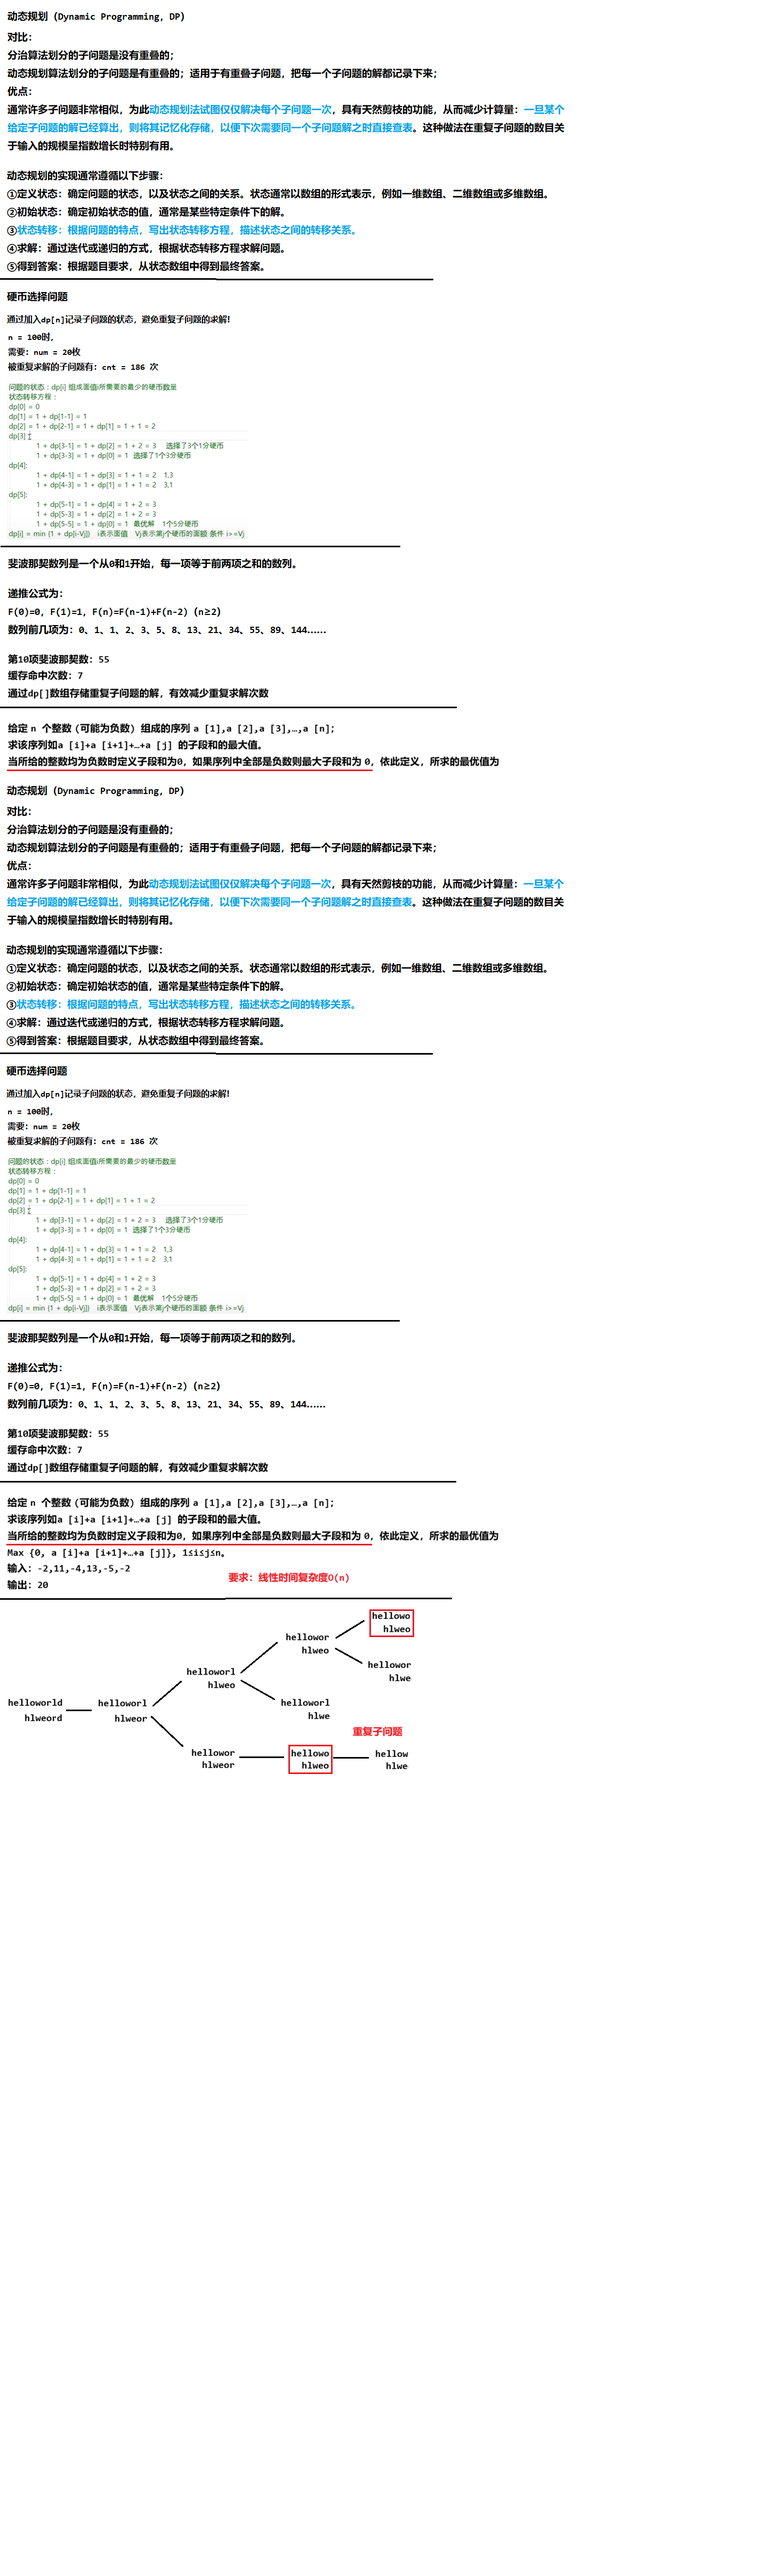
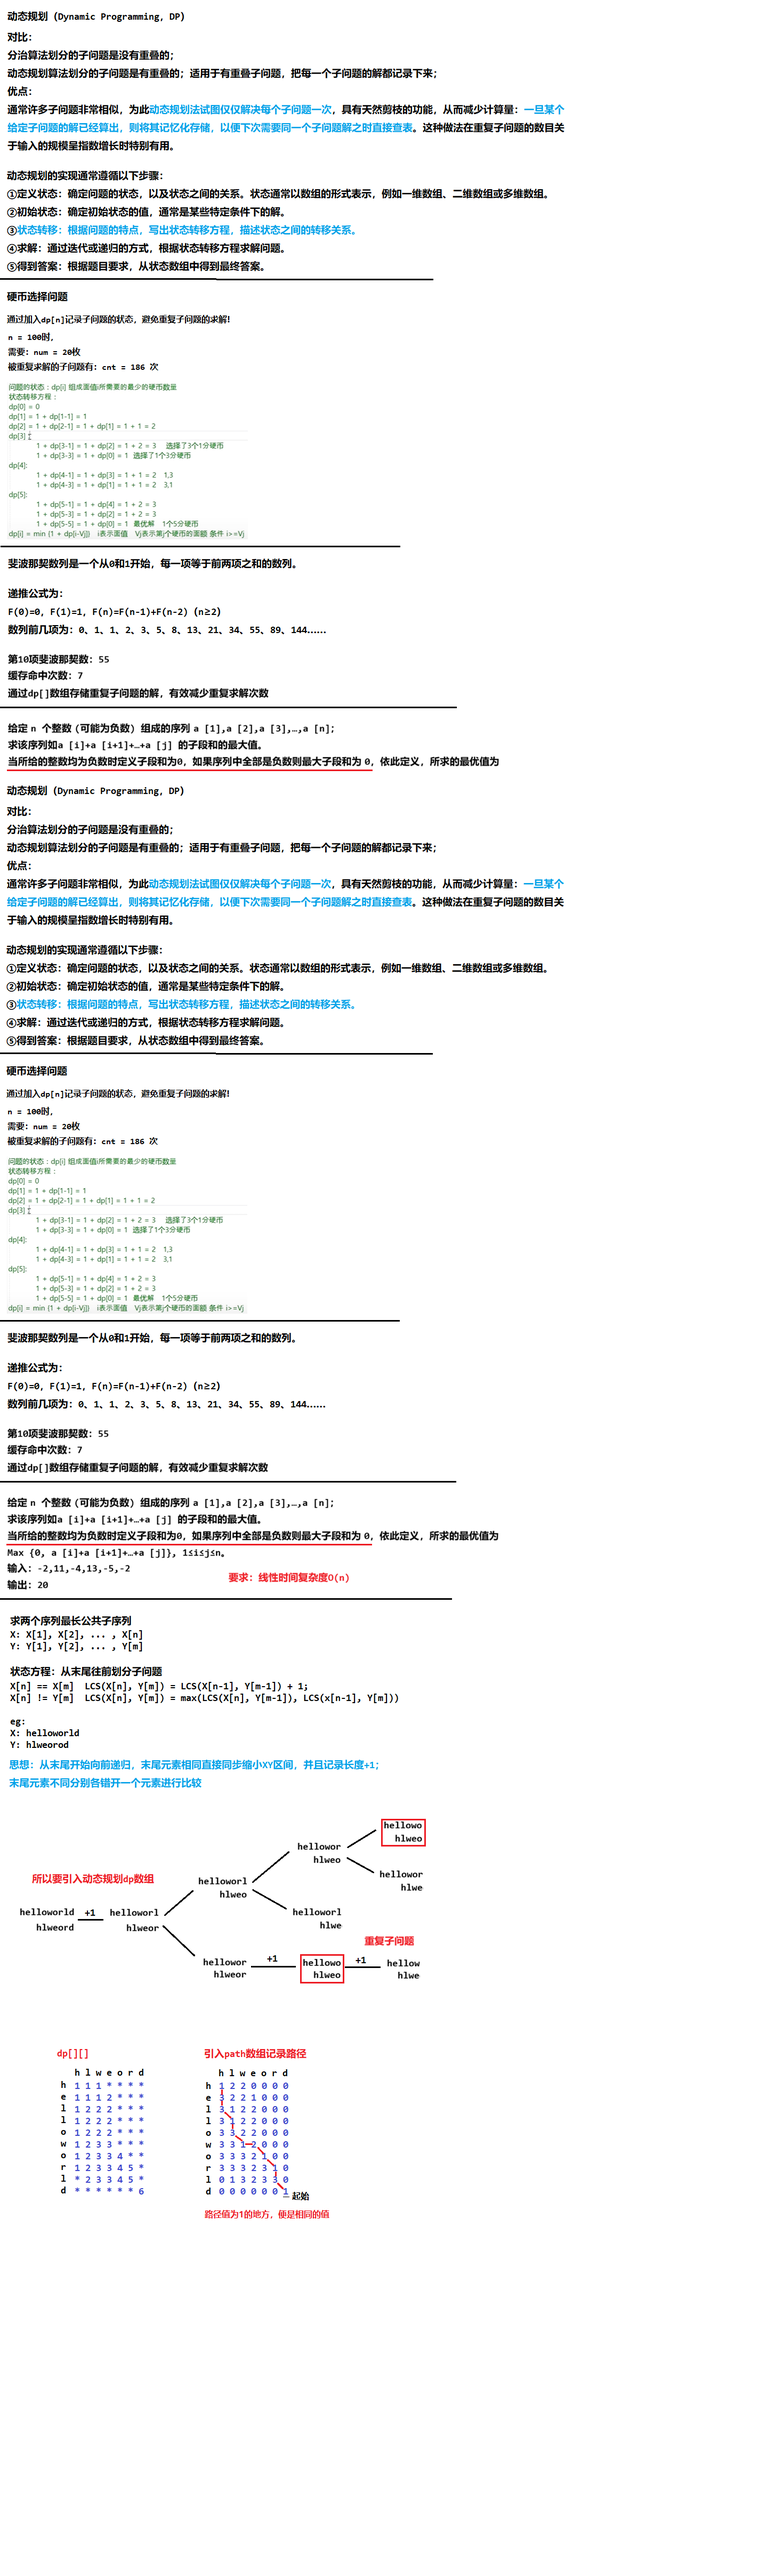
1

diff --git a/33 动态规划算法/动态规划算法/求两个序列最长公共子序列.cpp b/33 动态规划算法/动态规划算法/求两个序列最长公共子序列.cpp
@@ -1,55 +1,146 @@
-#include <iostream>
-#include <algorithm>
-#include <string>
-
-using namespace std;
-
-/*
-求两个序列最长公共子序列 
-
-X: X[1], X[2], ... , X[n]
-Y: Y[1], Y[2], ... , Y[m]
-
-
-状态方程：从末尾往前划分子问题
-X[n] == X[m]  LCS(X[n], Y[m]) = LCS(X[n-1], Y[m-1]) + 1;
-X[n] != Y[m]  LCS(X[n], Y[m]) = max(LCS(X[n], Y[m-1]), LCS(x[n-1], Y[m]))
-
-
-helloworld
-hlweorod
-*/
-
-//分治算法：存在大量重复子问题的计算，递归次数过多985次
-int cnt = 0;
-
-int LCS(string X, int n, string Y, int m)
-{
-	if (n < 0 || m < 0)
-	{
-		return 0;
-	}
-	//记录递归次数
-	cnt++;
-	if (X[n] == Y[m])
-	{
-		return LCS(X, n - 1, Y, m - 1) + 1;
-	}
-	else
-	{
-		return max(LCS(X, n - 1, Y, m), LCS(X, n, Y, m-1));
-	}
-}
-
-int main()
-{
-	string X = "helloworld";
-	string Y = "hlweorod";
-	int n = X.size() - 1;
-	int m = Y.size() - 1;
-
-	cout << "LCS lenght：" << LCS(X, n, Y, m) << endl;
-	cout << "cnt = " << cnt << endl;
-
-	return 0;
-}
+//#include <iostream>
+//#include <algorithm>
+//#include <vector>
+//#include <string>
+//
+//using namespace std;
+//
+///*
+//求两个序列最长公共子序列 
+//
+//X: X[1], X[2], ... , X[n]
+//Y: Y[1], Y[2], ... , Y[m]
+//
+//
+//状态方程：从末尾往前划分子问题
+//X[n] == X[m]  LCS(X[n], Y[m]) = LCS(X[n-1], Y[m-1]) + 1;
+//X[n] != Y[m]  LCS(X[n], Y[m]) = max(LCS(X[n], Y[m-1]), LCS(x[n-1], Y[m]))
+//
+//eg:
+//X: helloworld
+//Y: hlweorod
+//*/
+//
+//
+//
+//string X = "helloworld";
+//string Y = "hlweord";
+//int lenX = X.size(); //数组长度 = 数组下标 + 1;
+//int lenY = Y.size();
+//
+////记录子问题的解
+//vector<vector<int>> dp(lenX, vector<int>(lenY, -1)); //nxm初始化为-1
+///*
+//    作用：记录递归的路径
+//    path[][] = 1; 走对角线
+//    path[][] = 2; 走左下方
+//    path[][] = 3; 走右上方
+//*/
+//vector<vector<int>> path(lenX, vector<int>(lenY, 0));
+//
+//
+//int cnt = 0;
+//
+//int LCS(string X, int n, string Y, int m)
+//{
+//    if (n < 0 || m < 0)
+//    {
+//        return 0;
+//    }
+//    //记忆化：该子问题已经算过，直接返回缓存结果
+//    if (dp[n][m] >= 0)
+//    {
+//        return dp[n][m];
+//    }
+//    //记录递归次数
+//    cnt++;
+//    //末尾项相同
+//    if (X[n] == Y[m])
+//    {
+//        dp[n][m] = LCS(X, n - 1, Y, m - 1) + 1;
+//        path[n][m] = 1; //由[n][m] -> [n-1][m-1]
+//        return dp[n][m];
+//    }
+//    else
+//    {
+//        int len1 = LCS(X, n, Y, m - 1);
+//        int len2 = LCS(X, n - 1, Y, m);
+//        dp[n][m] = max(len1, len2);
+//
+//        if (len1 >= len2)
+//        {
+//            path[n][m] = 2; //由[n][m] -> [n][m-1]
+//        }
+//        else
+//        {
+//            path[n][m] = 3; //由[n][m] -> [n-1][m]
+//        }
+//
+//        return dp[n][m];
+//    }
+//}
+//
+////[递归]打印重复字符
+//void backStrace(string X, int n, string Y, int m)
+//{
+//    //递归结束条件：n、m大于等于0继续递归;
+//    if (n < 0 || m < 0)
+//    {
+//        return;
+//    }
+//
+//    //开始递归
+//    if (path[n][m] == 1)
+//    {
+//        backStrace(X, n - 1, Y, m - 1);
+//        //由于是从尾项开始比较，所以应该在递归回溯过程打印
+//        cout << X[n] << " ";
+//    }
+//    else if (path[n][m] == 2)
+//    {
+//        backStrace(X, n, Y, m - 1); //向左递归
+//    }
+//    else if (path[n][m] == 3)
+//    {
+//        backStrace(X, n - 1, Y, m); //向右递归
+//    }
+//}
+//
+//int main()
+//{
+//	cout << "LCS lenght：" << LCS(X, lenX - 1, Y, lenY - 1) << endl; //传入的是下标
+//	cout << "cnt = " << cnt << endl;
+//
+//    //打印重复字符
+//    cout << "最长公共子序列：";
+//    backStrace(X, lenX - 1, Y, lenY - 1);  cout << endl;
+//
+//    cout << "dp:" << endl;
+//    for (int i = 0; i < lenX; i++)
+//    {
+//        for (int j = 0; j < lenY; j++)
+//        {
+//            if (dp[i][j] == -1)
+//            {
+//                cout << "* ";
+//            }
+//            else 
+//            {
+//                cout << dp[i][j] << " ";
+//            }
+//        }
+//        cout << endl;
+//    }
+//
+//    cout << "path:" << endl;
+//    for (int i = 0; i < lenX; i++)
+//    {
+//        for (int j = 0; j < lenY; j++)
+//        {
+//            cout << path[i][j] << " ";
+//        }
+//        cout << endl;
+//    }
+//
+//	return 0;
+//}

diff --git a/33 动态规划算法/动态规划算法/求两个序列最长公共子序列-非递归.cpp b/33 动态规划算法/动态规划算法/求两个序列最长公共子序列-非递归.cpp
@@ -1,0 +1,55 @@
+#include <iostream>
+#include <algorithm>
+#include <vector>
+#include <string>
+
+using namespace std;
+
+string X = "helloworld";
+string Y = "hlweord";
+int lenX = X.size(); //数组长度 = 数组下标 + 1;
+int lenY = Y.size();
+
+//记录子问题的解
+vector<vector<int>> dp(lenX, vector<int>(lenY, -1)); //nxm初始化为-1
+//记录查找路径
+vector<vector<int>> path(lenX, vector<int>(lenY, 0));
+
+//[非递归]查找
+int LCS(string X, int n, string Y, int m)
+{
+    for (int i = 1; i <= n; i++)
+    {
+        for (int j = 1; j <= m; j++)
+        {
+            if (X[i-1] == Y[j-1])
+            {
+                // 末尾字符相同，继承左上角的结果+1
+                dp[i][j] = dp[i - 1][j - 1] + 1;
+            }
+            else
+            {
+                // 末尾不同，取“删X末尾”和“删Y末尾”的最大值
+                dp[i][j] = max(dp[i - 1][j], dp[i][j - 1]);
+            }
+        }
+    }
+    return dp[n][m];
+}
+
+//[非递归]打印重复字符
+void backStrace(string X, int n, string Y, int m)
+{
+
+}
+
+int main()
+{
+    cout << "LCS lenght：" << LCS(X, lenX - 1, Y, lenY - 1) << endl; //传入的是下标
+
+    //打印重复字符
+    cout << "最长公共子序列：";
+    //backStrace(X, lenX - 1, Y, lenY - 1);  cout << endl;
+
+    return 0;
+}
